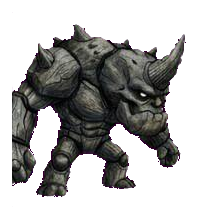
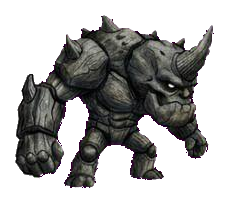
Fix Stone Golem death motion

diff --git a/test_v2_motion.js b/test_v2_motion.js
@@ -40,12 +40,13 @@ for (const [motion, count] of Object.entries({ attack: 5, hit: 4, death: 6 })) {
     assert(fs.existsSync(path.join(root, relative)), `Death Knight frame is missing: ${relative}`);
   }
 }
-for (const [motion, count] of Object.entries({ attack: 5, hit: 4, death: 6 })) {
+for (const [motion, count] of Object.entries({ attack: 5, hit: 4, death: 5 })) {
   for (let index = 1; index <= count; index += 1) {
     const relative = `art/v2-style/animation-test-frames/stone-golem/${motion}-${String(index).padStart(2, "0")}.png`;
     assert(fs.existsSync(path.join(root, relative)), `Stone Golem frame is missing: ${relative}`);
   }
 }
+assert(!fs.existsSync(path.join(root, "art/v2-style/animation-test-frames/stone-golem/death-06.png")), "Stone Golem death frame 6 must not be used.");
 for (const [motion, count] of Object.entries({ attack: 5, hit: 4, death: 5 })) {
   for (let index = 1; index <= count; index += 1) {
     const relative = `art/v2-style/animation-test-frames/skeleton-spear/${motion}-${String(index).padStart(2, "0")}.png`;
@@ -68,7 +69,7 @@ assert(fs.existsSync(path.join(root, "art/v2-style/animation-sheets/green-raw/de
 assert(fs.existsSync(path.join(root, "art/v2-style/animation-sheets/green-raw/skeleton-spear-animation-sheet.jpg")), "New raw Skeleton Spearman sheet is missing.");
 assert(fs.existsSync(path.join(root, "art/v2-style/animation-sheets/green-raw/ancient-treant-animation-sheet.jpg")), "New raw Ancient Treant sheet is missing.");
 assert(fs.existsSync(path.join(root, "art/v2-style/animation-sheets/green-raw/stone-golem-animation-sheet.jpg")), "New raw Stone Golem sheet is missing.");
-assert(serviceWorker.includes("necromancer-expedition-v71"), "Service worker cache version was not bumped.");
+assert(serviceWorker.includes("necromancer-expedition-v72"), "Service worker cache version was not bumped.");
 assert(!serviceWorker.includes("animation-sheets/uploaded-raw"), "Deleted legacy animation sheets remain in offline cache.");
 assert(!serviceWorker.includes("animation-test-crops"), "Deleted comparison crops remain in offline cache.");
 for (const match of serviceWorker.matchAll(/^\s*"(\.\/[^"?]+)(?:\?[^\"]*)?"[,]?$/gm)) {

diff --git a/v2-animation-practice.js b/v2-animation-practice.js
@@ -9,7 +9,7 @@
     "death-knight": { name: "데스나이트", root: "art/v2-style/animation-test-frames/death-knight/", counts: { attack: 5, hit: 4, death: 6 } },
     "skeleton-spear": { name: "해골 창병", root: "art/v2-style/animation-test-frames/skeleton-spear/", counts: { attack: 5, hit: 4, death: 5 } },
     "ancient-treant": { name: "고대 트렌트", root: "art/v2-style/animation-test-frames/ancient-treant/", counts: { attack: 5, hit: 4, death: 6 } },
-    "stone-golem": { name: "암석 골렘", root: "art/v2-style/animation-test-frames/stone-golem/", counts: { attack: 5, hit: 4, death: 6 } }
+    "stone-golem": { name: "암석 골렘", root: "art/v2-style/animation-test-frames/stone-golem/", counts: { attack: 5, hit: 4, death: 5 } }
   });
   const FRAME_MS = Object.freeze({ attack: 145, hit: 135, death: 175 });
   const MOTION_LABELS = Object.freeze({ attack: "공격", hit: "피격", death: "사망" });

diff --git a/service-worker.js b/service-worker.js
@@ -1,4 +1,4 @@
-const CACHE_NAME = "necromancer-expedition-v71";
+const CACHE_NAME = "necromancer-expedition-v72";
 const APP_SHELL = [
   "./",
   "./index.html",
@@ -65,7 +65,7 @@ Object.entries({ attack: 5, hit: 4, death: 6 }).forEach(([motion, count]) => {
     APP_SHELL.push(`./art/v2-style/animation-test-frames/ancient-treant/${motion}-${String(index).padStart(2, "0")}.png`);
   }
 });
-Object.entries({ attack: 5, hit: 4, death: 6 }).forEach(([motion, count]) => {
+Object.entries({ attack: 5, hit: 4, death: 5 }).forEach(([motion, count]) => {
   for (let index = 1; index <= count; index += 1) {
     APP_SHELL.push(`./art/v2-style/animation-test-frames/stone-golem/${motion}-${String(index).padStart(2, "0")}.png`);
   }
